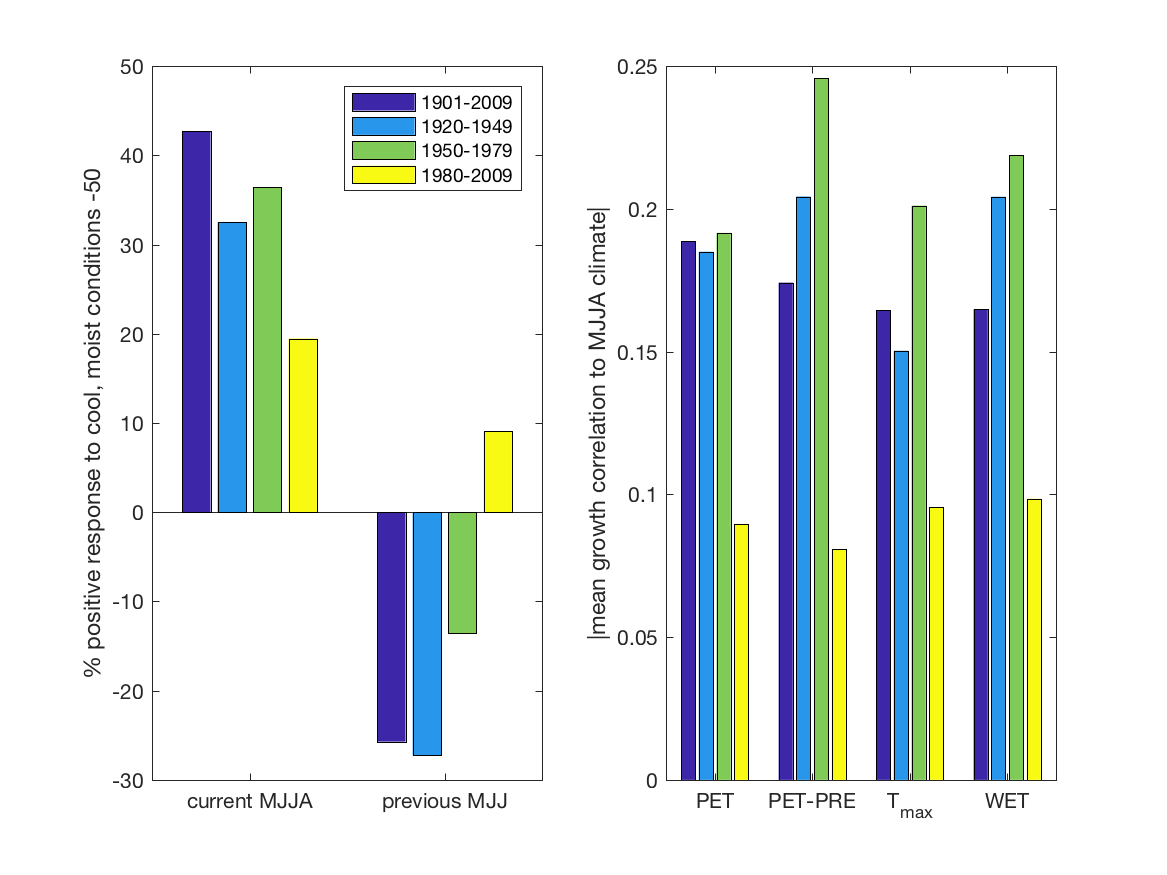
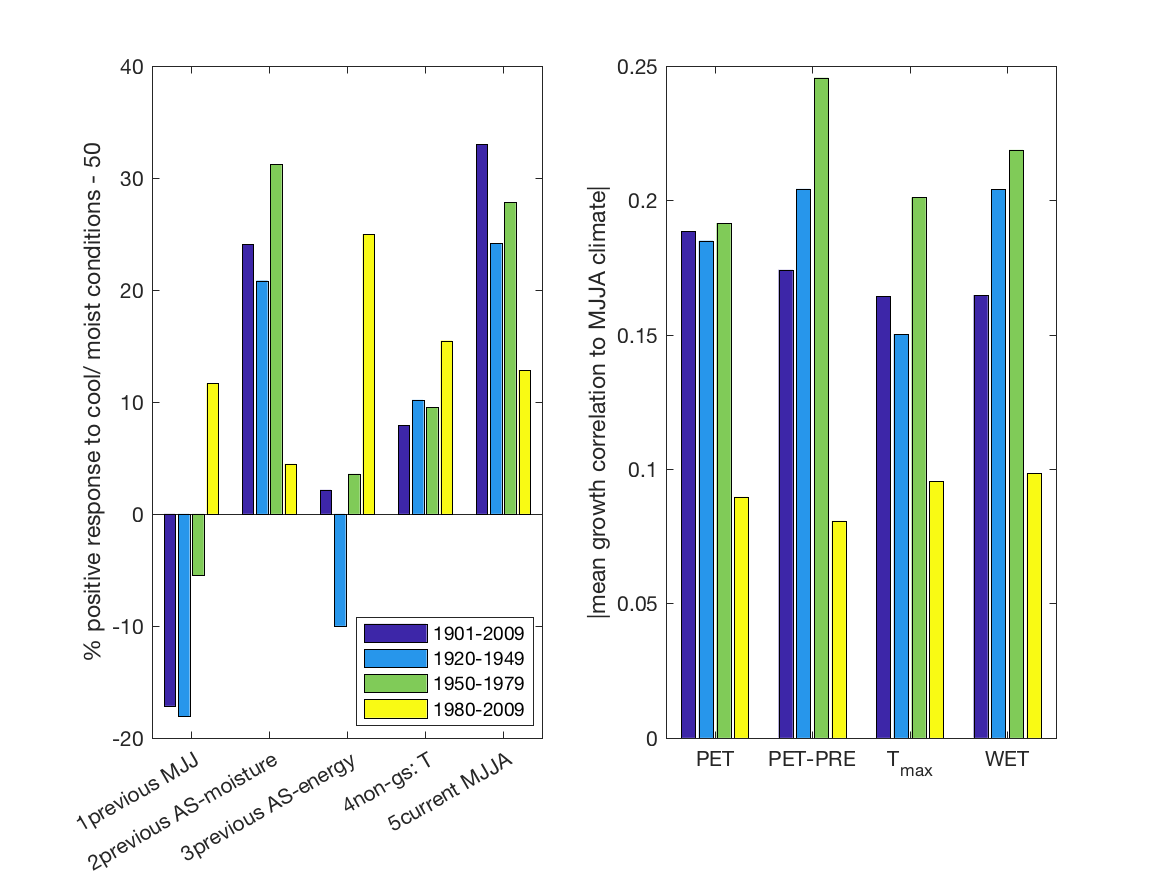
added some more time periods to analysis

diff --git a/scripts/time_period_comparison_figure.m b/scripts/time_period_comparison_figure.m
@@ -9,7 +9,7 @@ clim_var={'cld'; 'dtr'; 'pet';'PET-PRE'; 'pre' ;'tmn'; 'tmp'; 'tmx'; 'vap'; 'wet
 months={'prev.apr'	'prev.may'	'prev.jun'	'prev.jul'	'prev.aug'	'prev.sep'	'prev.oct'	'prev.nov'	'prev.dec'	'curr.jan'	'curr.feb'	'curr.mar'	'curr.apr'	'curr.may'	'curr.jun'	'curr.jul'	'curr.aug'};
 
 % create index variables that designate rows belonging to different variable groups
-Energy_variables = [ NaN 1 1 1 NaN 1 1 1 NaN NaN NaN ]; % negative response expected during current gs
+Energy_variables = [ NaN NaN 1 1 NaN 1 1 1 NaN NaN NaN ]; % negative response expected during current gs
 Water_variables = [ 1 NaN NaN NaN 1 NaN NaN NaN NaN 1 1 ];  % positive response expected during current gs
 Temperature_variables = [ NaN NaN NaN NaN NaN 1 1 1 NaN NaN NaN ];  % positive response expected during current gs
 
@@ -17,6 +17,7 @@ Temperature_variables = [ NaN NaN NaN NaN NaN 1 1 1 NaN NaN NaN ];  % positive r
 current_gs= [ NaN NaN NaN NaN NaN NaN NaN NaN NaN NaN NaN NaN NaN 1 1 1 1 ];
 past_gs_early= [ NaN 1 1 1 NaN NaN NaN NaN NaN NaN NaN NaN NaN NaN NaN NaN NaN ];
 past_gs_late= [ NaN NaN NaN NaN 1 1 NaN NaN NaN NaN NaN NaN NaN NaN NaN NaN NaN ];
+non_gs= [ NaN NaN NaN NaN NaN NaN 1 1 1 1 1 1 NaN NaN NaN NaN NaN ];
 
 % create matrices to store results
 percent_neg_E_current_gs = NaN*ones(1,4);
@@ -71,6 +72,22 @@ for TP=1:4
     percent_expected_past_egs (TP) = percent_pos_E_past_egs(TP)*(sum(sum(1-isnan(per_pos_corr_past_egs_E)))/30) +...
                                        percent_neg_W_past_egs(TP)*(sum(sum(1-isnan(per_neg_corr_past_egs_W)))/30);
                                    
+    % percent responding positively to cool, moist conditions during Aug-Sept of previous growing season
+    n_pos_corr_past_lgs_E=(n_positive_corr.*past_gs_late).*Energy_variables'; 
+    per_pos_corr_past_lgs_E=(n_pos_corr_past_lgs_E)/n_sp*100;
+    percent_neg_E_past_lgs (TP) = 100-sum(nansum(per_pos_corr_past_lgs_E))/sum(sum(1-isnan(per_pos_corr_past_lgs_E)));
+    n_neg_corr_past_lgs_W=(n_positive_corr.*past_gs_late).*Water_variables'; 
+    per_neg_corr_past_lgs_W=(n_sp-n_neg_corr_past_lgs_W)/n_sp*100;
+    percent_pos_W_past_lgs (TP) = 100-sum(nansum(per_neg_corr_past_lgs_W))/sum(sum(1-isnan(per_neg_corr_past_lgs_W)));
+    percent_expected_past_lgs (TP) = percent_neg_E_past_lgs(TP)*(sum(sum(1-isnan(per_pos_corr_past_lgs_E)))/20) +...
+                                       percent_pos_W_past_lgs(TP)*(sum(sum(1-isnan(per_neg_corr_past_lgs_W)))/20);
+                                   
+    % percent responding negatively to T outside growing season
+    n_neg_corr_ngs_T=(n_positive_corr.*non_gs).*Temperature_variables'; 
+    per_neg_corr_ngs_T=(n_neg_corr_ngs_T)/n_sp*100;
+    percent_neg_T_ngs (TP) = 100-sum(nansum(per_neg_corr_ngs_T))/sum(sum(1-isnan(per_neg_corr_ngs_T)));
+
+                                   
     %average strength of May-Aug correlations
     mean_corr_mjja=(mean_corr.*current_gs);
     mean_corr_PET_mjja(TP)=nanmean(mean_corr_mjja(3,:));
@@ -87,11 +104,14 @@ cd '/Users/teixeirak/Dropbox (Smithsonian)/GitHub/SCBI-ForestGEO/climate_sensiti
 figure (1)
 
 subplot(1,2,1)
-x = categorical({'current MJJA' 'previous MJJ'});
-y = [percent_expected_current_gs-50; 50-percent_expected_past_egs];
+var=({ 'previous MJJ' 'previous AS-moisture' 'previous AS-energy' 'non-gs: T' 'current MJJA'});
+%x = categorical(var,var) 
+x = categorical({'5current MJJA' '1previous MJJ' '2previous AS-moisture' '3previous AS-energy' '4non-gs: T' });
+%x = reordercats(x,{ 'previous MJJ' 'previous AS-moisture' 'previous AS-energy' 'non-gs: T' 'current MJJA'});
+y = [percent_expected_current_gs-50; 50-percent_expected_past_egs; percent_pos_W_past_lgs-50; percent_neg_E_past_lgs-50; percent_neg_T_ngs-50];
 bar (x,y)
-ylabel('% positive response to cool, moist conditions -50') 
-legend({'1901-2009' '1920-1949' '1950-1979' '1980-2009'})
+ylabel('% positive response to cool/ moist conditions - 50') 
+legend({'1901-2009' '1920-1949' '1950-1979' '1980-2009'},'Location','Best')
 
 subplot(1,2,2)
 x = categorical({'PET' 'WET' 'PET-PRE' 'T_{max}'});
@@ -100,8 +120,8 @@ bar (x,y)
 ylabel('|mean growth correlation to MJJA climate|')
 print('BarPlot','-dpng')
 
-figure (4)
-TP=categorical({'1901-2009' '1920-1949' '1950-1979' '1980-2009'});
-bar (TP,mean_corr_PRE_mjja)
-ylabel('mean correlation with PRE')
-xlabel('Time period')
+%figure (4)
+%TP=categorical({'1901-2009' '1920-1949' '1950-1979' '1980-2009'});
+%bar (TP,mean_corr_PRE_mjja)
+%ylabel('mean correlation with PRE')
+%xlabel('Time period')
